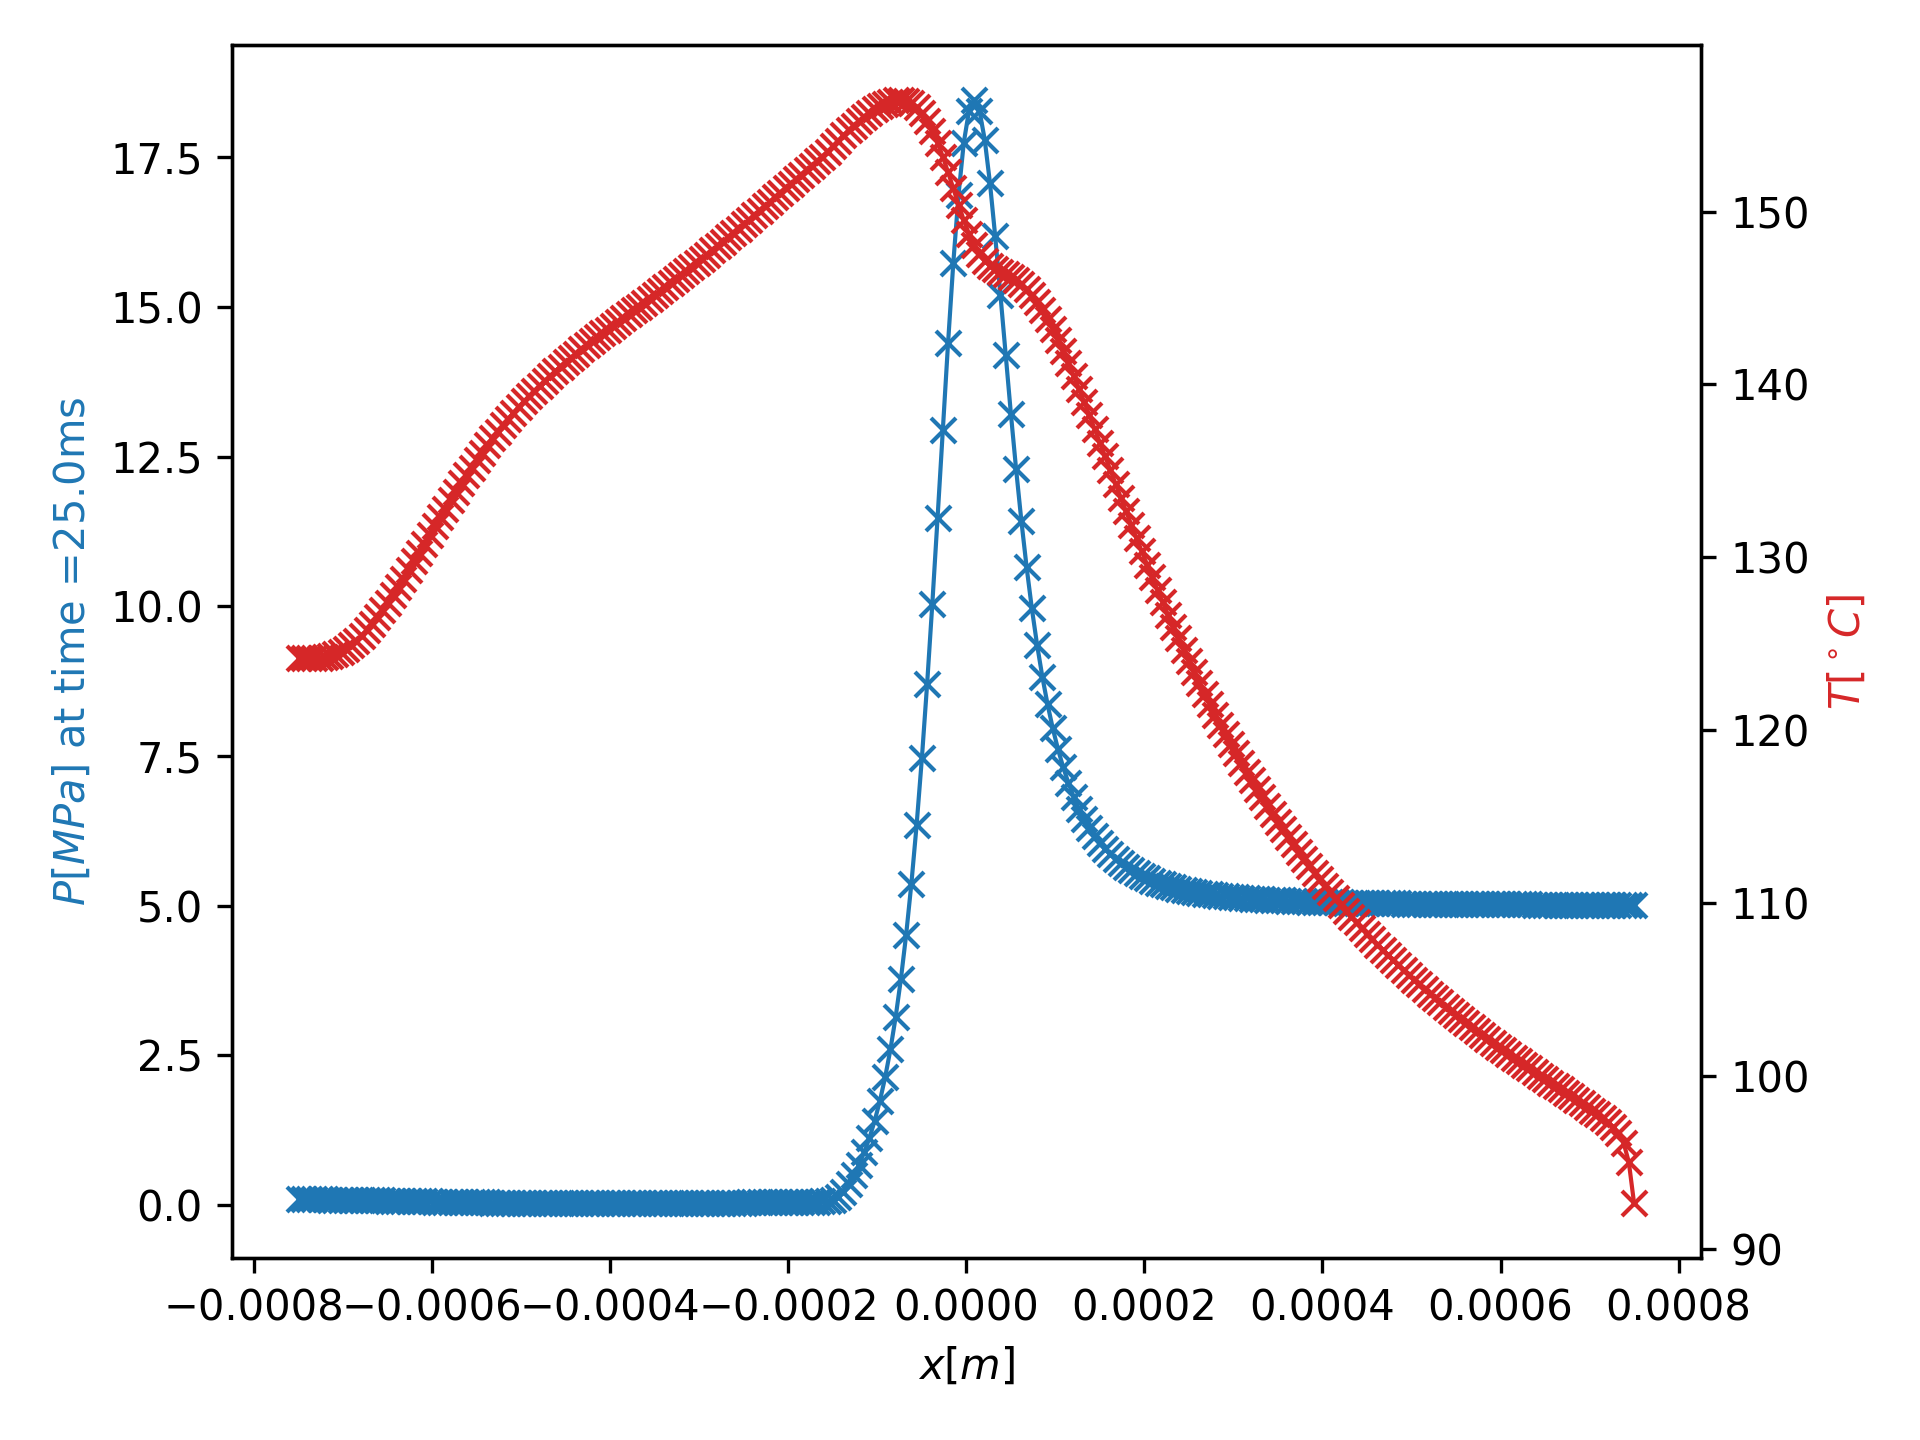
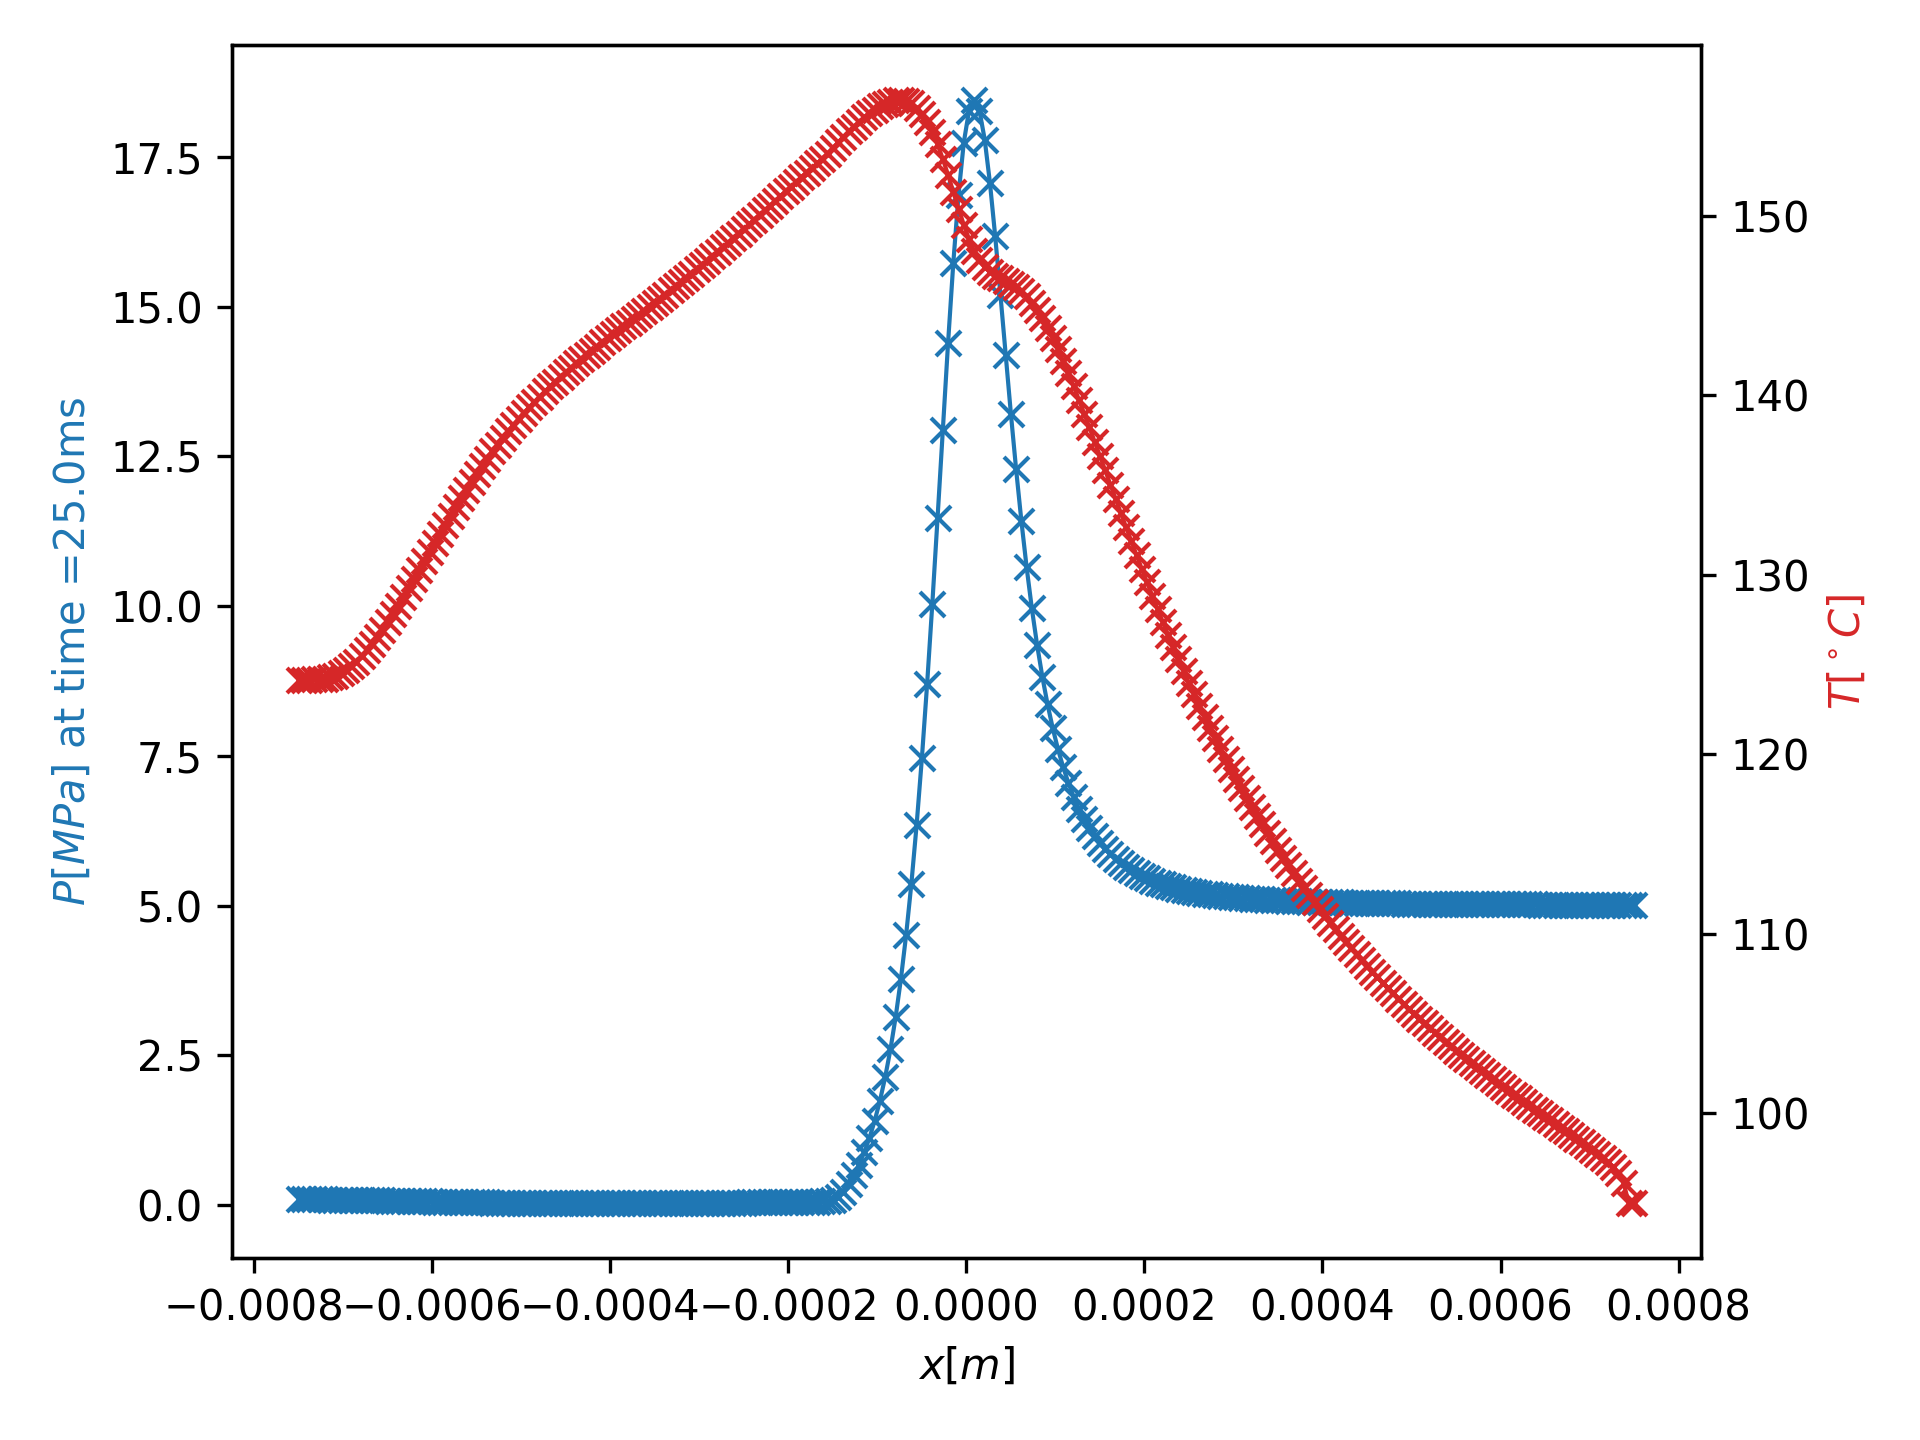
figs from data_v2

diff --git a/PostProcessing.py b/PostProcessing.py
@@ -81,7 +81,7 @@ Discretization=FiniteDifferences(Grid)
 """Read Data"""
 time=0
 for time in range(1,Time.nt): # [100]:# 
-    FileName='Data/Time_'+str(round(Time.t[time]*1000,4))+'ms.h5' 
+    FileName='Data_v2/Time_'+str(round(Time.t[time]*1000,4))+'ms.h5' 
 
     Data=IO.ReadData(FileName)
     StateVector[time].h0=float(Data['State']['h0']) # ok
@@ -196,142 +196,142 @@ plt.close()
 
 
 
-# ## Characteristic pressure & temperature fields at interesting and relevant locations
+## Characteristic pressure & temperature fields at interesting and relevant locations
 
-# for time in interesting_timestamps:
+for time in interesting_timestamps:
     
-#     vis.Report_PT(Grid, StateVector[time], time=time) # plt.show() has to be uncommented in VisualLib --> kan ook gwn hier
-#     figname="PostProcessing/PT@Time_"+"{0:.2f}".format(round(Time.t[time]*1000,5))+"ms.png" 
-#     plt.savefig(figname,dpi=300)
-#     # plt.show()
-#     plt.close()
+    vis.Report_PT(Grid, StateVector[time], time=time) # plt.show() has to be uncommented in VisualLib --> kan ook gwn hier
+    figname="PostProcessing/PT@Time_"+"{0:.2f}".format(round(Time.t[time]*1000,5))+"ms.png" 
+    plt.savefig(figname,dpi=300)
+    # plt.show()
+    plt.close()
 
 
-# ### Vapour volume fraction, viscosity, Density at relavant locations
-# # interesting_timestamps = [100]
-# for time in interesting_timestamps:
-#     plt.plot(Grid.x*1000,StateVector[time].VapourVolumeFraction)
-#     plt.ylabel(chr(945) + ' [-]'+' at time =' + str(time*5/100) + 'ms')
-#     plt.xlabel('x [mm]')
-#     figname="PostProcessing/alpha@Time_"+"{0:.2f}".format(round(Time.t[time]*1000,5))+"ms.png" 
-#     plt.savefig(figname,dpi=300)
-#     # plt.show()
-#     plt.close()
+### Vapour volume fraction, viscosity, Density at relavant locations
+# interesting_timestamps = [100]
+for time in interesting_timestamps:
+    plt.plot(Grid.x*1000,StateVector[time].VapourVolumeFraction)
+    plt.ylabel(chr(945) + ' [-]'+' at time =' + str(time*5/100) + 'ms')
+    plt.xlabel('x [mm]')
+    figname="PostProcessing/alpha@Time_"+"{0:.2f}".format(round(Time.t[time]*1000,5))+"ms.png" 
+    plt.savefig(figname,dpi=300)
+    # plt.show()
+    plt.close()
 
 
-#     plt.plot(Grid.x*1000,StateVector[time].Density)
-#     plt.ylabel('Density [kg/m³]'+' at time =' + str(time*5/100) + 'ms')
-#     plt.xlabel('x [mm]')
-#     figname="PostProcessing/rho@Time_"+"{0:.2f}".format(round(Time.t[time]*1000,5))+"ms.png" 
-#     plt.savefig(figname,dpi=300)
-#     # plt.show()
-#     plt.close()
+    plt.plot(Grid.x*1000,StateVector[time].Density)
+    plt.ylabel('Density [kg/m³]'+' at time =' + str(time*5/100) + 'ms')
+    plt.xlabel('x [mm]')
+    figname="PostProcessing/rho@Time_"+"{0:.2f}".format(round(Time.t[time]*1000,5))+"ms.png" 
+    plt.savefig(figname,dpi=300)
+    # plt.show()
+    plt.close()
 
 
-#     plt.plot(Grid.x*1000,StateVector[time].Viscosity)
-#     plt.ylabel('Viscosity [Pa s]'+' at time =' + str(time*5/100) + 'ms')
-#     plt.xlabel('x [mm]')
-#     figname="PostProcessing/µ@Time_"+"{0:.2f}".format(round(Time.t[time]*1000,5))+"ms.png" 
-#     plt.savefig(figname,dpi=300)
-#     # plt.show()
-#     plt.close()
+    plt.plot(Grid.x*1000,StateVector[time].Viscosity)
+    plt.ylabel('Viscosity [Pa s]'+' at time =' + str(time*5/100) + 'ms')
+    plt.xlabel('x [mm]')
+    figname="PostProcessing/µ@Time_"+"{0:.2f}".format(round(Time.t[time]*1000,5))+"ms.png" 
+    plt.savefig(figname,dpi=300)
+    # plt.show()
+    plt.close()
 
     
 
 
 
 
-# ## 2D vectorplot of flow velocity at relevant locations
+## 2D vectorplot of flow velocity at relevant locations
 
-#     ## To be done:  calculate time derivative of h0 for v2 (v1=0)
-#     ##              implement formulas from slide 17 in Hydrodyn Theory slides
+    ## To be done:  calculate time derivative of h0 for v2 (v1=0)
+    ##              implement formulas from slide 17 in Hydrodyn Theory slides
 
-# # interesting_timestamps = [100]
-# for time in interesting_timestamps:
-#     visc_x = StateVector[time].Viscosity
-#     density = Mixture.Density(StateVector[time])
-#     p = StateVector[time].Pressure
-#     p_x = Discretization.DDXCentral @ p
-#     DDX = Discretization.DDXCentral
-#     p_y = 0.0
-#     x_grid = Grid.x
-#     z_n = Grid.Nx
-#     h = StateVector[time].h
+# interesting_timestamps = [100]
+for time in interesting_timestamps:
+    visc_x = StateVector[time].Viscosity
+    density = Mixture.Density(StateVector[time])
+    p = StateVector[time].Pressure
+    p_x = Discretization.DDXCentral @ p
+    DDX = Discretization.DDXCentral
+    p_y = 0.0
+    x_grid = Grid.x
+    z_n = Grid.Nx
+    h = StateVector[time].h
     
-#     u1 = 0
-#     u2 = Ops.SlidingVelocity[time] # or PistonVelocity ? idk
-#     Nx = Grid.Nx
-#     u_x = np.zeros((z_n, Nx))
-#     u_z = np.zeros((z_n, Nx))
+    u1 = 0
+    u2 = Ops.SlidingVelocity[time] # or PistonVelocity ? idk
+    Nx = Grid.Nx
+    u_x = np.zeros((z_n, Nx))
+    u_z = np.zeros((z_n, Nx))
 
-#     z_grid = np.linspace(0.0, h[0], z_n)
+    z_grid = np.linspace(0.0, h[0], z_n)
     
-#     for x in range(Grid.Nx):
-#         u_x[:, x] = np.array([1/visc_x[x] * p_x[x] * 1/2 * (z**2 - h[x] * z) if z < h[x] else 0 for z in z_grid])  # Poiseuille
-#         u_x[:, x] += np.array([(u2 - u1) / h[x] * z + u1 if z < h[x] else 0 for z in z_grid])                      # Couette
-#         # Note: list comprehension is used to get zero for points "inside" of the ring in the vector plot
+    for x in range(Grid.Nx):
+        u_x[:, x] = np.array([1/visc_x[x] * p_x[x] * 1/2 * (z**2 - h[x] * z) if z < h[x] else 0 for z in z_grid])  # Poiseuille
+        u_x[:, x] += np.array([(u2 - u1) / h[x] * z + u1 if z < h[x] else 0 for z in z_grid])                      # Couette
+        # Note: list comprehension is used to get zero for points "inside" of the ring in the vector plot
 
-#         # u_z[:, x] = np.trapz(1/density[x] * DDX @ (density[x] * u_x[:, x]),z_grid)*10000
+        # u_z[:, x] = np.trapz(1/density[x] * DDX @ (density[x] * u_x[:, x]),z_grid)*10000
 
-#     ## Reduce amount of datapoint used to generate vectors. Note: plt.quiver wants the same amount of elements in X and Y!
-#     skip = 10
-#     skip1 = (slice(None, None, skip))
-#     skip2 = (slice(None, None, skip), slice(None, None, skip))
+    ## Reduce amount of datapoint used to generate vectors. Note: plt.quiver wants the same amount of elements in X and Y!
+    skip = 10
+    skip1 = (slice(None, None, skip))
+    skip2 = (slice(None, None, skip), slice(None, None, skip))
 
-#     ## Make grid for vectors
-#     X, Z = np.meshgrid(x_grid[skip1], z_grid[skip1])
+    ## Make grid for vectors
+    X, Z = np.meshgrid(x_grid[skip1], z_grid[skip1])
 
-#     X_l, Z_l = np.meshgrid((x_grid[:Nx//2])[skip1], (z_grid)[skip1])
-#     X_r, Z_r = np.meshgrid((x_grid[Nx//2+1:])[skip1], (z_grid)[skip1])
+    X_l, Z_l = np.meshgrid((x_grid[:Nx//2])[skip1], (z_grid)[skip1])
+    X_r, Z_r = np.meshgrid((x_grid[Nx//2+1:])[skip1], (z_grid)[skip1])
 
 
-#     ## Make vector plot
-#     plt.quiver(X,Z,u_x[skip2],u_z[skip2],minlength=0,scale=350)
+    ## Make vector plot
+    plt.quiver(X,Z,u_x[skip2],u_z[skip2],minlength=0,scale=350)
 
-#     ### (Un)comment following two line to ensure that no vector crosses the ring.
-#     # plt.quiver(X_l,Z_l,(u_x[:,:Nx//2])[skip2],(u_z[:,:Nx//2])[skip2],minlength=0,pivot='tip',scale=350)
-#     # plt.quiver(X_r,Z_r,(u_x[:,Nx//2+1:])[skip2],(u_z[:,Nx//2+1:])[skip2],minlength=0,pivot='tail',scale=350)
+    ### (Un)comment following two line to ensure that no vector crosses the ring.
+    # plt.quiver(X_l,Z_l,(u_x[:,:Nx//2])[skip2],(u_z[:,:Nx//2])[skip2],minlength=0,pivot='tip',scale=350)
+    # plt.quiver(X_r,Z_r,(u_x[:,Nx//2+1:])[skip2],(u_z[:,Nx//2+1:])[skip2],minlength=0,pivot='tail',scale=350)
 
-#     plt.plot(x_grid*1000, StateVector[time].h*1000)
-#     figname="PostProcessing/Vectorplot@Time_"+"{0:.2f}".format(round(Time.t[time]*1000,5))+"ms.png" 
-#     plt.xlabel('x [mm]')
-#     plt.ylabel('z [mm]')
-#     plt.title('Vectorplot for t =' + str(time*5/100) + 'ms')
-#     plt.savefig(figname,dpi=300)
-#     # plt.show()
-#     plt.close()
+    plt.plot(x_grid*1000, StateVector[time].h*1000)
+    figname="PostProcessing/Vectorplot@Time_"+"{0:.2f}".format(round(Time.t[time]*1000,5))+"ms.png" 
+    plt.xlabel('x [mm]')
+    plt.ylabel('z [mm]')
+    plt.title('Vectorplot for t =' + str(time*5/100) + 'ms')
+    plt.savefig(figname,dpi=300)
+    # plt.show()
+    plt.close()
 
             
 
 
-# ## Wear of Compression Ring and Wear at Cylinder liner after one combustion cycle
+## Wear of Compression Ring and Wear at Cylinder liner after one combustion cycle
 
-# WearDepthRing_values = np.zeros(Time.nt - 1)
-# WearDepthCylinder_values = np.zeros(len(interesting_timestamps))
+WearDepthRing_values = np.zeros(Time.nt - 1)
+WearDepthCylinder_values = np.zeros(len(interesting_timestamps))
 
-# for time in range(Time.nt - 1):
-#     WearDepthRing_values[time] = StateVector[time].WearDepthRing
+for time in range(Time.nt - 1):
+    WearDepthRing_values[time] = StateVector[time].WearDepthRing
 
-# plt.plot(Ops.CranckAngle[1:], WearDepthRing_values, 'bo')
-# plt.xlabel('Crank angle [rad]')
-# # plt.plot(Time.t[1:], WearDepthRing_values, 'bo')
-# # plt.xlabel('time [s]')
-# plt.ylabel('Weardepth ring [mm]')
-# plt.savefig('PostProcessing/WearDepth_ring.png',dpi=300)
-# # plt.show()
-# plt.close()
+plt.plot(Ops.CranckAngle[1:], WearDepthRing_values, 'bo')
+plt.xlabel('Crank angle [rad]')
+# plt.plot(Time.t[1:], WearDepthRing_values, 'bo')
+# plt.xlabel('time [s]')
+plt.ylabel('Weardepth ring [mm]')
+plt.savefig('PostProcessing/WearDepth_ring.png',dpi=300)
+# plt.show()
+plt.close()
 
 
-# # for time in interesting_timestamps:
-# time = 998 # We are only interested in wear after a full combustion cycle
-# plt.plot(StateVector[time].WearLocationsCylinder*1000 - 95.5, StateVector[time].WearDepthCylinder, 'bo')
-# plt.xlabel('Location on cylinder liner [mm]')
-# plt.ylabel('Wear depth [m]')
-# plt.savefig('PostProcessing/Wear_cylinder.png',dpi=300)    
-# # plt.show()
-# plt.close()
+# for time in interesting_timestamps:
+time = 998 # We are only interested in wear after a full combustion cycle
+plt.plot(StateVector[time].WearLocationsCylinder*1000 - 95.5, StateVector[time].WearDepthCylinder, 'bo')
+plt.xlabel('Location on cylinder liner [mm]')
+plt.ylabel('Wear depth [m]')
+plt.savefig('PostProcessing/Wear_cylinder.png',dpi=300)    
+# plt.show()
+plt.close()
 
-# print('Maximim wear depth on cylinder sleeve = ' + str(max(StateVector[time].WearDepthCylinder)))
+print('Maximim wear depth on cylinder sleeve = ' + str(max(StateVector[time].WearDepthCylinder)))
 
 
 
